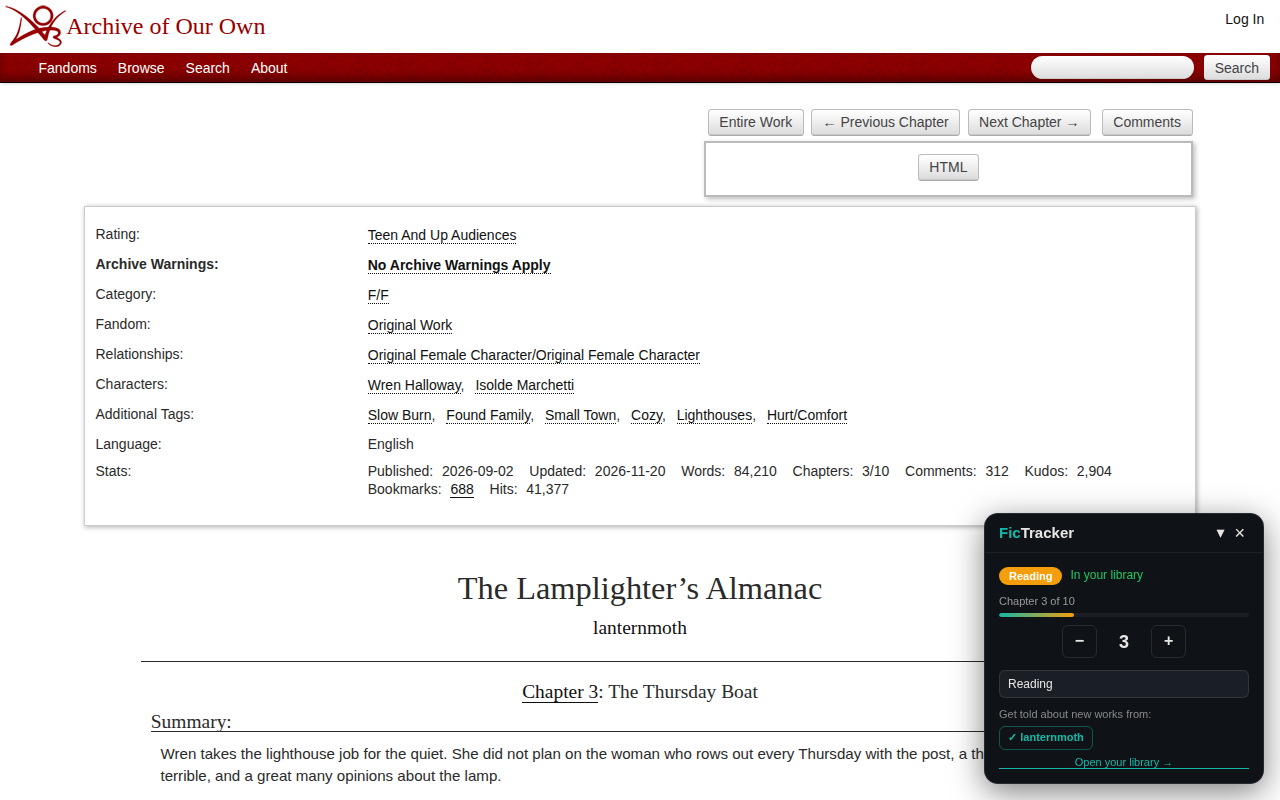
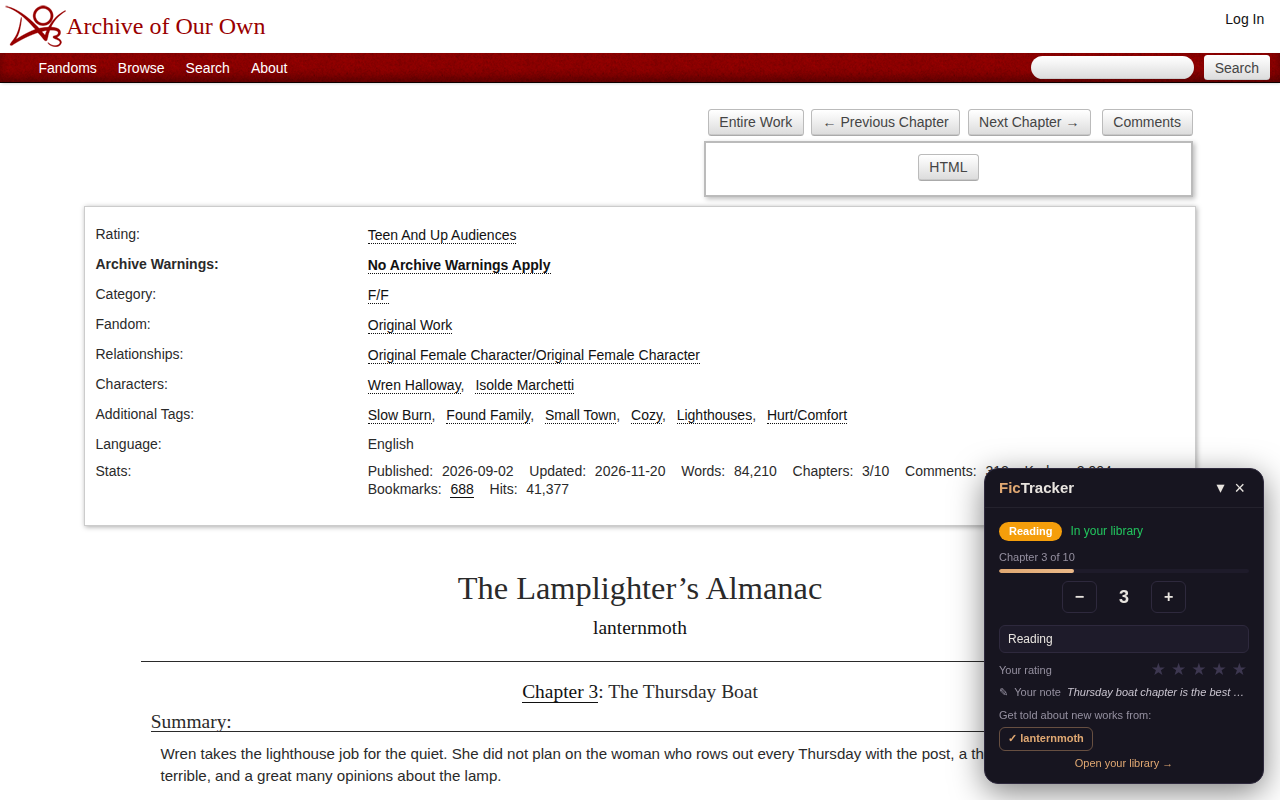
Release 2.0.1: version, notes, screenshots

Changed region(s): [[0.75, 0.5625, 1.0, 0.9688]]

diff --git a/extension/store-assets/LISTING.md b/extension/store-assets/LISTING.md
@@ -27,7 +27,7 @@ nothing to paste. AMO's summary (250 max):
 
 > FicTracker keeps track of what you're reading on Archive of Our Own, right where you read it.
 >
-> Open a fic on AO3 and a small panel shows your progress. Read the next chapter and it moves along with you. Set a status (Reading, To Read, Completed, On Hold, Dropped), and rate it or add notes from your library.
+> Open a fic on AO3 and a small panel shows your progress. Read the next chapter and it moves along with you. Set a status (Reading, To Read, Completed, On Hold, DNF), and rate it or add notes from your library.
 >
 > What it does:
 > - Tracks your chapter and status in every fic as you read on AO3
@@ -49,7 +49,11 @@ nothing to paste. AMO's summary (250 max):
 >
 > FicTracker isn't affiliated with AO3 or the Organization for Transformative Works.
 
-## What's new in 2.0.0 (AMO version notes / Chrome has no field)
+## What's new in 2.0.1 (AMO version notes / Chrome has no field)
+
+> Rate a fic and jot a note right from the panel on AO3, and it'll ask for a rating when you finish one. The panel now matches the library's colors. DNF and Dropped were the same thing, so they're one status now: your Dropped fics are under DNF.
+
+## What's new in 2.0.0
 
 > FicTracker 2.0 is a rebuild based on your feedback. Sign-in is gone (it was broken, sorry!) and so are accounts, the paid tier and AI Picks. Everything now lives in the extension: your library opens from the toolbar button. New: AO3 history import, WIP and author/series update checks, and a Fic Finder that searches AO3 for any of your tags.
 

diff --git a/extension/BUILD-FOR-REVIEWERS.md b/extension/BUILD-FOR-REVIEWERS.md
@@ -1,4 +1,4 @@
-# Building FicTracker 2.0.0 from source
+# Building FicTracker 2.0.1 from source
 
 The add-on is built from this source with Vite (the library page, React) and
 esbuild (background script and content scripts). Nothing is downloaded at
@@ -17,7 +17,7 @@ npm run build:ext
 ```
 
 The Firefox build is written to `extension/dist/build-firefox/`, and the
-uploaded package is `extension/dist/fictracker-firefox-v2.0.0.zip`.
+uploaded package is `extension/dist/fictracker-firefox-v2.0.1.zip`.
 
 ## Where things come from
 
